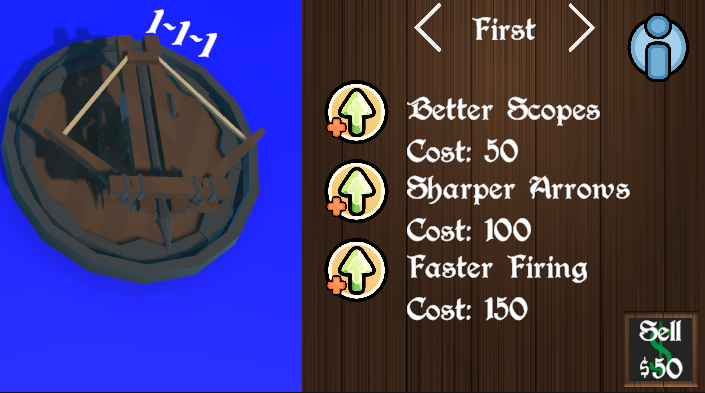
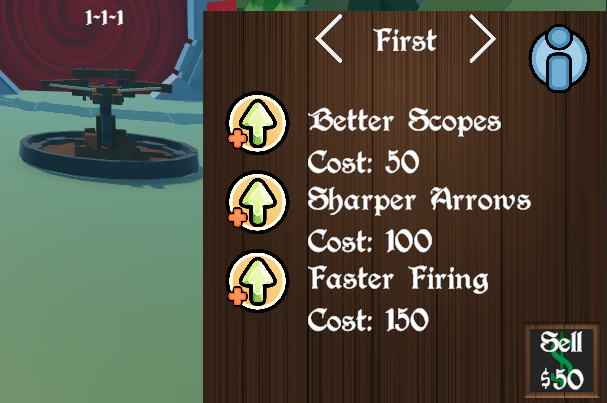
q

diff --git a/projects/ApparitionExhibitation/index.html b/projects/ApparitionExhibitation/index.html
@@ -1,0 +1,163 @@
+<!DOCTYPE HTML>
+<html>
+
+<head>
+	<title>RyanHerwig - ORBIT</title>
+	<meta charset="utf-8" />
+	<meta name="viewport" content="width=device-width, initial-scale=1, user-scalable=no" />
+	<link rel="stylesheet" href="../../assets/css/main.css" />
+	<link rel="stylesheet" href="../projectPage.css" />
+	<noscript>
+		<link rel="stylesheet" href="../../assets/css/noscript.css" />
+	</noscript>
+</head>
+
+<body class="is-preload" style="background: linear-gradient(115deg, white, rgb(120, 120, 120));">
+	<!-- Wrapper -->
+	<div id="wrapper" class="divided">
+		<section class="banner fullscreens onload-image-fade-in onload-content-fade-right">
+
+			<!--Header-->
+			<section class="wrapper style1 align-center content">
+				<!--Head Image-->
+				<div class="container content smaller-container">
+					<img class="main-image" src="./Pictures/ApparitionExhibitationLogo.png" alt="" />
+				</div>
+				<!--Description-->
+				<h2 class="condensed-text">Apparition Exhibitation</h2>
+				<p class="inner-text condensed-text extra-space">
+					UwU
+					<br>
+					<br>
+					Built with a team of 9 people in a 48 hour time period. Awarded 1st place in the 2024 Fall KABOOM! Game Jam.
+					<br>
+					Built in Unity.
+				</p>
+			</section>
+			<section class="wrapper style1 align-center content">
+
+				<!--Role-->
+				<h2 class="condensed-text">Role</h2>
+				<p class="condensed-text extra-space">Programmer</p>
+				<h3>What Did I Contribute?</h3>
+			</section>
+
+			<!--Contributions-->
+
+			<!--Contribution 1-->
+			<section
+				class="spotlight style1 orient-right content-align-left image-position-center onscroll-image-fade-in">
+				<div class="content">
+					<h2>Team Lead / Lead Programmer</h2>
+					<p>
+						As a team lead, one of my core principles was to ensure the team's goals were met, which included the
+						improvement in each member's respective disciplines. Additionally, I led the meetings, where the team
+						discussed the next course of action, gave progress reports, and gave constructive criticism.
+						Due to the revolving team, I was also responsible for screening potential new members, making sure
+						the team was balanced and that they were a good fit for the team.
+						<br>
+						Before I was team lead, I was the programming lead, where I delegated tasks to the person I thought it fit
+						the best. Additionally, I kept the quality to a certain standard and gave feedback to people to improve
+						their code.
+					</p>
+				</div>
+				<div class="image no-clip">
+					<img src="./Pictures/ApparitionExhibitationLogo.png" alt="Failed to load image" />
+				</div>
+			</section>
+
+			<!--Contribution 2-->
+			<section
+				class="spotlight style1 orient-left content-align-right image-position-center onscroll-image-fade-in">
+				<div class="content">
+					<h2>Producer</h2>
+					<p>
+						As the producer, one of my responsibilities were to keep the team organized and on task.
+						To accomplish this, I used Mirio and Trello for brainstorming and task delegation respectively.
+						Additionally, I prepared an excel document that held when tasks should be done alongside numerous
+						documents outlining what was expected for the task.
+					</p>
+				</div>
+				<div class="image no-clip">
+					<img src="./Pictures/ApparitionExhibitationLogo.png" alt="Failed to load image" />
+				</div>
+			</section>
+
+			<!--Contribution 3-->
+			<section
+				class="spotlight style1 orient-right content-align-left image-position-center onscroll-image-fade-in">
+				<div class="content">
+					<h2>Game Loop</h2>
+					<p>
+						While Lead Programmer, my first goal was to create an efficient and bug-free environment for the game.
+						To accomplish this, I created an organized loop that controlled all other aspects of the game. With this,
+						it removed numerous potential bugs, such as a list being read while a different area was writting into it.
+						To make the game as efficient as possible, I utilized object pooling to spawn the enemies, which made the game
+						only spawn as many enemies as it needed and to reuse enemies that were no longer active. With this system,
+						the game did not need to expend resources to repetively create and destroy enemy objects.
+					</p>
+				</div>
+				<div class="image no-clip">
+					<img src="./Pictures/ApparitionExhibitationLogo.png" alt="Failed to load image" />
+				</div>
+			</section>
+
+			<!--Links-->
+			<section class="wrapper style1 align-center content">
+				<div class="inner">
+					<h2 class="onload-content-fade-right">Links</h2>
+					<div class="items style1 medium onscroll-fade-in">
+						<section>
+							<a href="https://theacereal.itch.io/orbit"
+								class="icon brands style2 major-button fa-itch-io"><span
+									class="label">Itch.io</span></a>
+							<h3>Itch.io</h3>
+							<p>Play the Game!</p>
+						</section>
+						<section>
+							<a href="../../index.html#Gallery"
+								class="icon style2 solid major-button fa-chess-rook"><span
+									class="label">Gallery</span></a>
+							<h3>More Games</h3>
+							<p>View other games I worked on!</p>
+						</section>
+						<section>
+							<a href="../../index.html#Contact" class="icon style2 solid major-button fa-envelope"><span
+									class="label">Envelope</span></a>
+							<h3>Contact me</h3>
+							<p>rzherwig@gmail.com</p>
+						</section>
+						<section>
+							<a href="https://github.com/RyanHerwig"
+								class="icon style2 brands major-button fa-github"><span class="label">Github</span></a>
+							<h3>Github</h3>
+						</section>
+						<section>
+							<a href="https://www.linkedin.com/in/ryan-herwig/"
+								class="icon style2 brands major-button fa-linkedin-in"><span
+									class="label">Linkedin</span></a>
+							<h3>Linkedin</h3>
+						</section>
+					</div>
+				</div>
+			</section>
+
+			<!--Back Button-->
+			<section class="content fixedPosition">
+				<a href="../../index.html" class="icon solid style2 fa-backward"><span class="label">Github</span></a>
+			</section>
+		</section>
+	</div>
+	</div>
+
+	<!-- Scripts -->
+	<script src="../../assets/js/jquery.min.js"></script>
+	<script src="../../assets/js/jquery.scrollex.min.js"></script>
+	<script src="../../assets/js/jquery.scrolly.min.js"></script>
+	<script src="../../assets/js/browser.min.js"></script>
+	<script src="../../assets/js/breakpoints.min.js"></script>
+	<script src="../../assets/js/util.js"></script>
+	<script src="../../assets/js/main.js"></script>
+</body>
+
+</html>

diff --git a/index.html b/index.html
@@ -110,21 +110,11 @@
 				</article>
 				<article class="spotlight_image">
 					<a href="./images/gallery/fulls/04.jpg" class="image">
-						<img src="./images/gallery/01.jpg" alt="Image failed to load" />
+						<img src="./images/gallery/BlocksThumbnail.png" alt="Image failed to load" />
 					</a>
 				</article>
-				<article class="spotlight_image">
+				<article class="spotlight_image"> <!--Frostblade Saga-->
 					<a href="./images/gallery/fulls/05.jpg" class="image">
-						<img src="./images/gallery/01.jpg" alt="Image failed to load" />
-					</a>
-				</article>
-				<article class="spotlight_image">
-					<a href="./images/gallery/fulls/06.jpg" class="image">
-						<img src="./images/gallery/01.jpg" alt="Image failed to load" />
-					</a>
-				</article>
-				<article>
-					<a href="./images/gallery/fulls/01.jpg" class="image">
 						<img src="./images/gallery/01.jpg" alt="Image failed to load" />
 					</a>
 				</article>

diff --git a/projects/Rune_vs_Robots/index.html b/projects/Rune_vs_Robots/index.html
@@ -69,7 +69,7 @@
 					</p>
 				</div>
 				<div class="image no-clip">
-					<img src="./Pictures/RunesVsRobotsLogo.png" alt="Failed to load image" />
+					<img src="./Pictures/RvR1.png" alt="Failed to load image" />
 				</div>
 			</section>
 
@@ -144,7 +144,7 @@
 						</p>
 				</div>
 				<div class="image no-clip">
-					<img src="./Pictures/RunesVsRobotsLogo.png" alt="Failed to load image" />
+					<img src="./Pictures/RvR5.png" alt="Failed to load image" />
 				</div>
 			</section>
 
